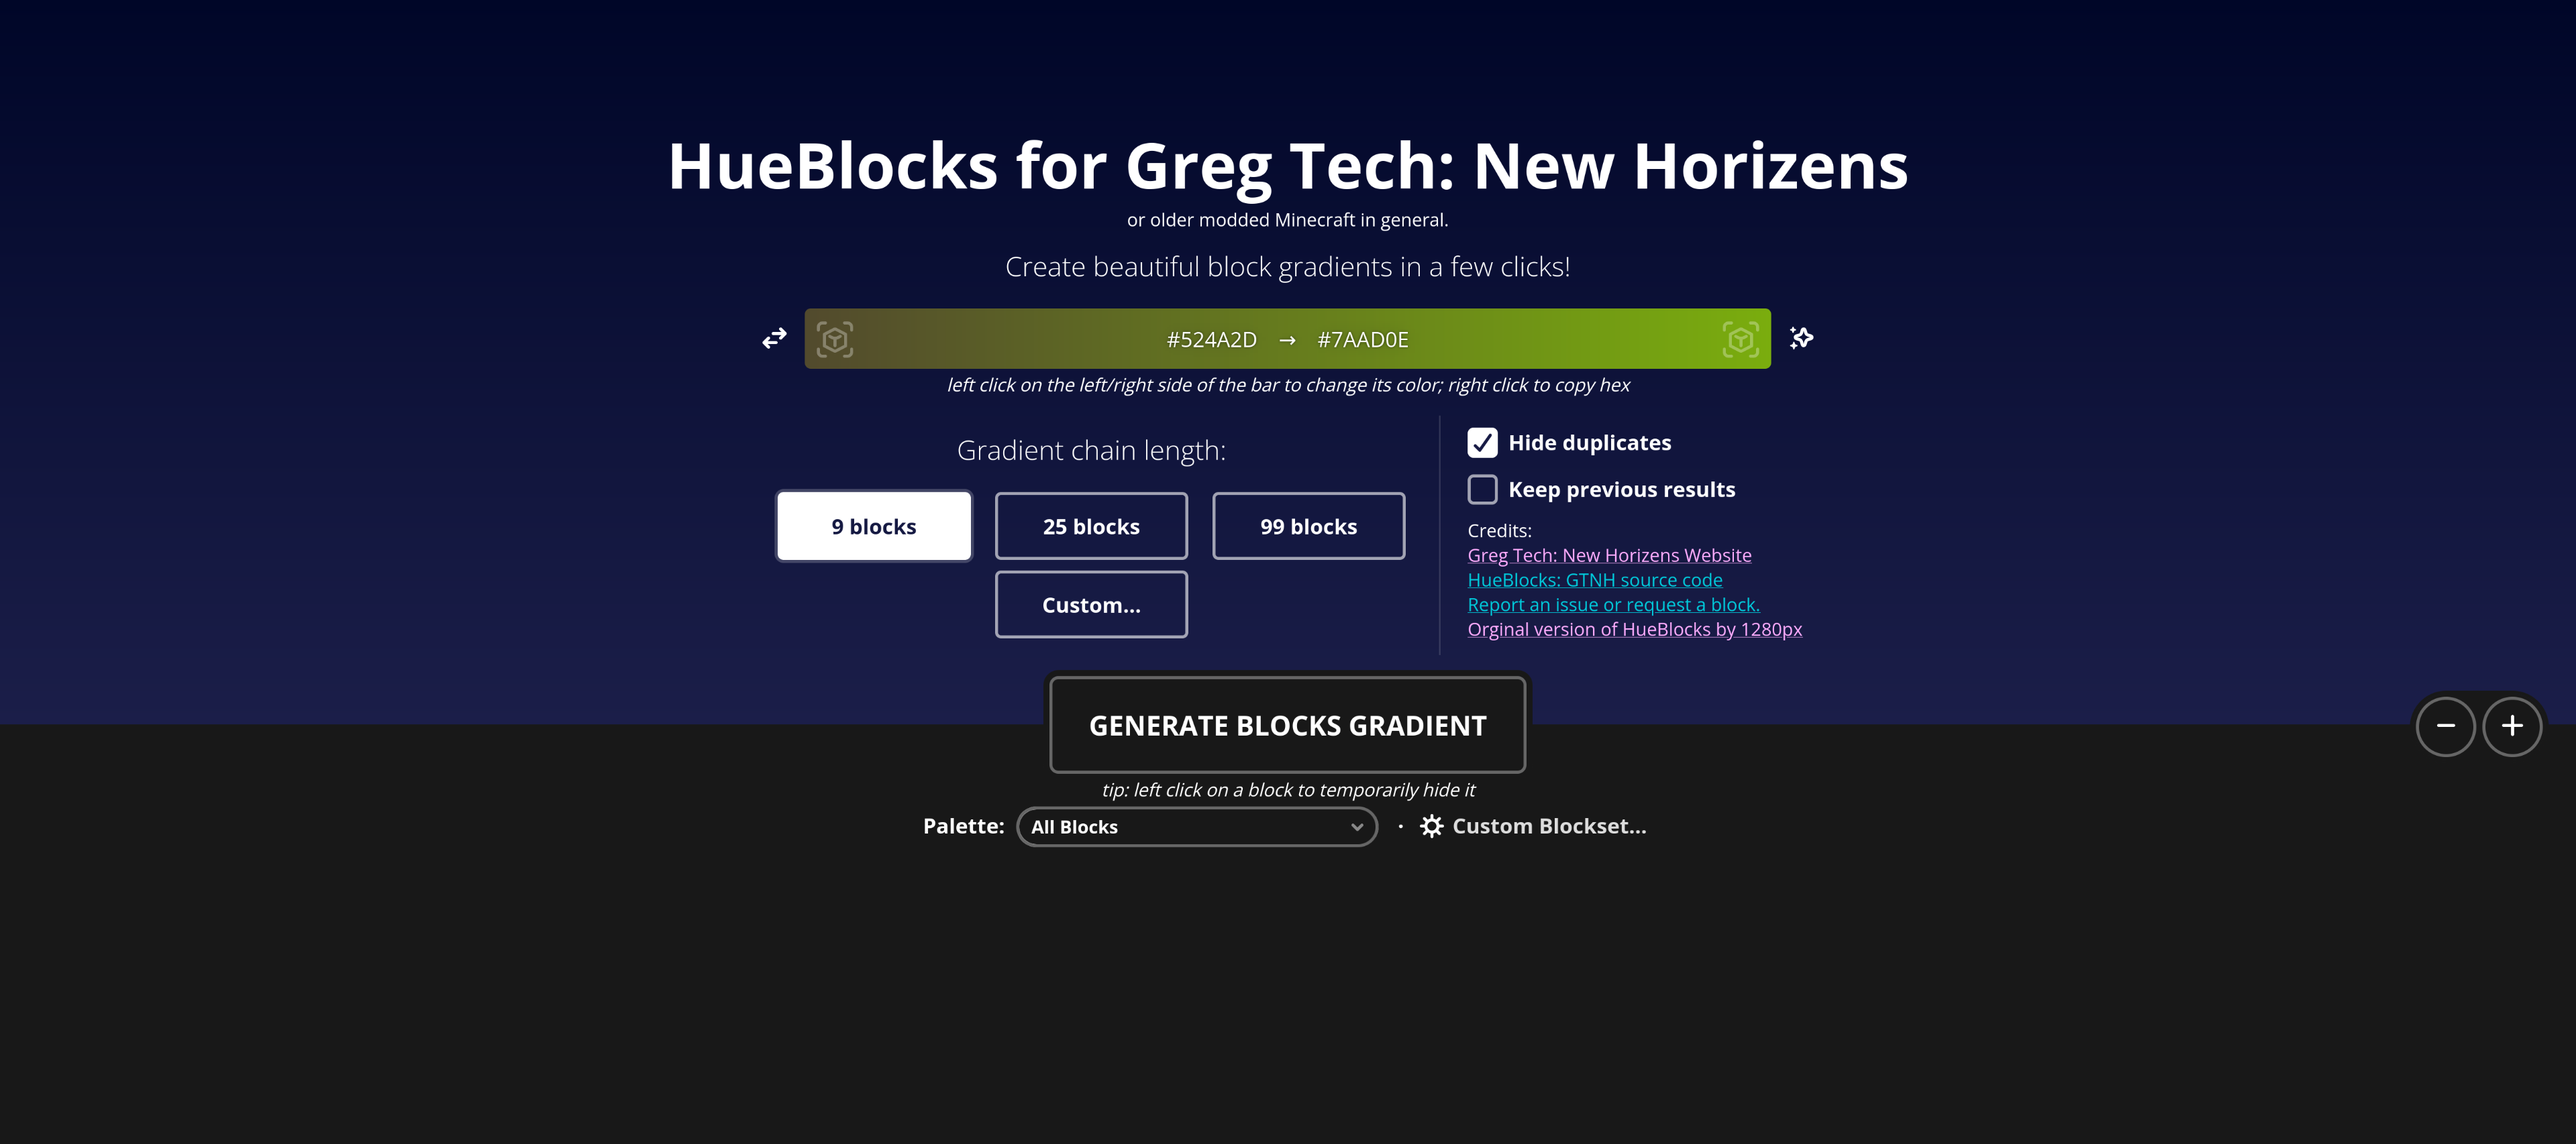
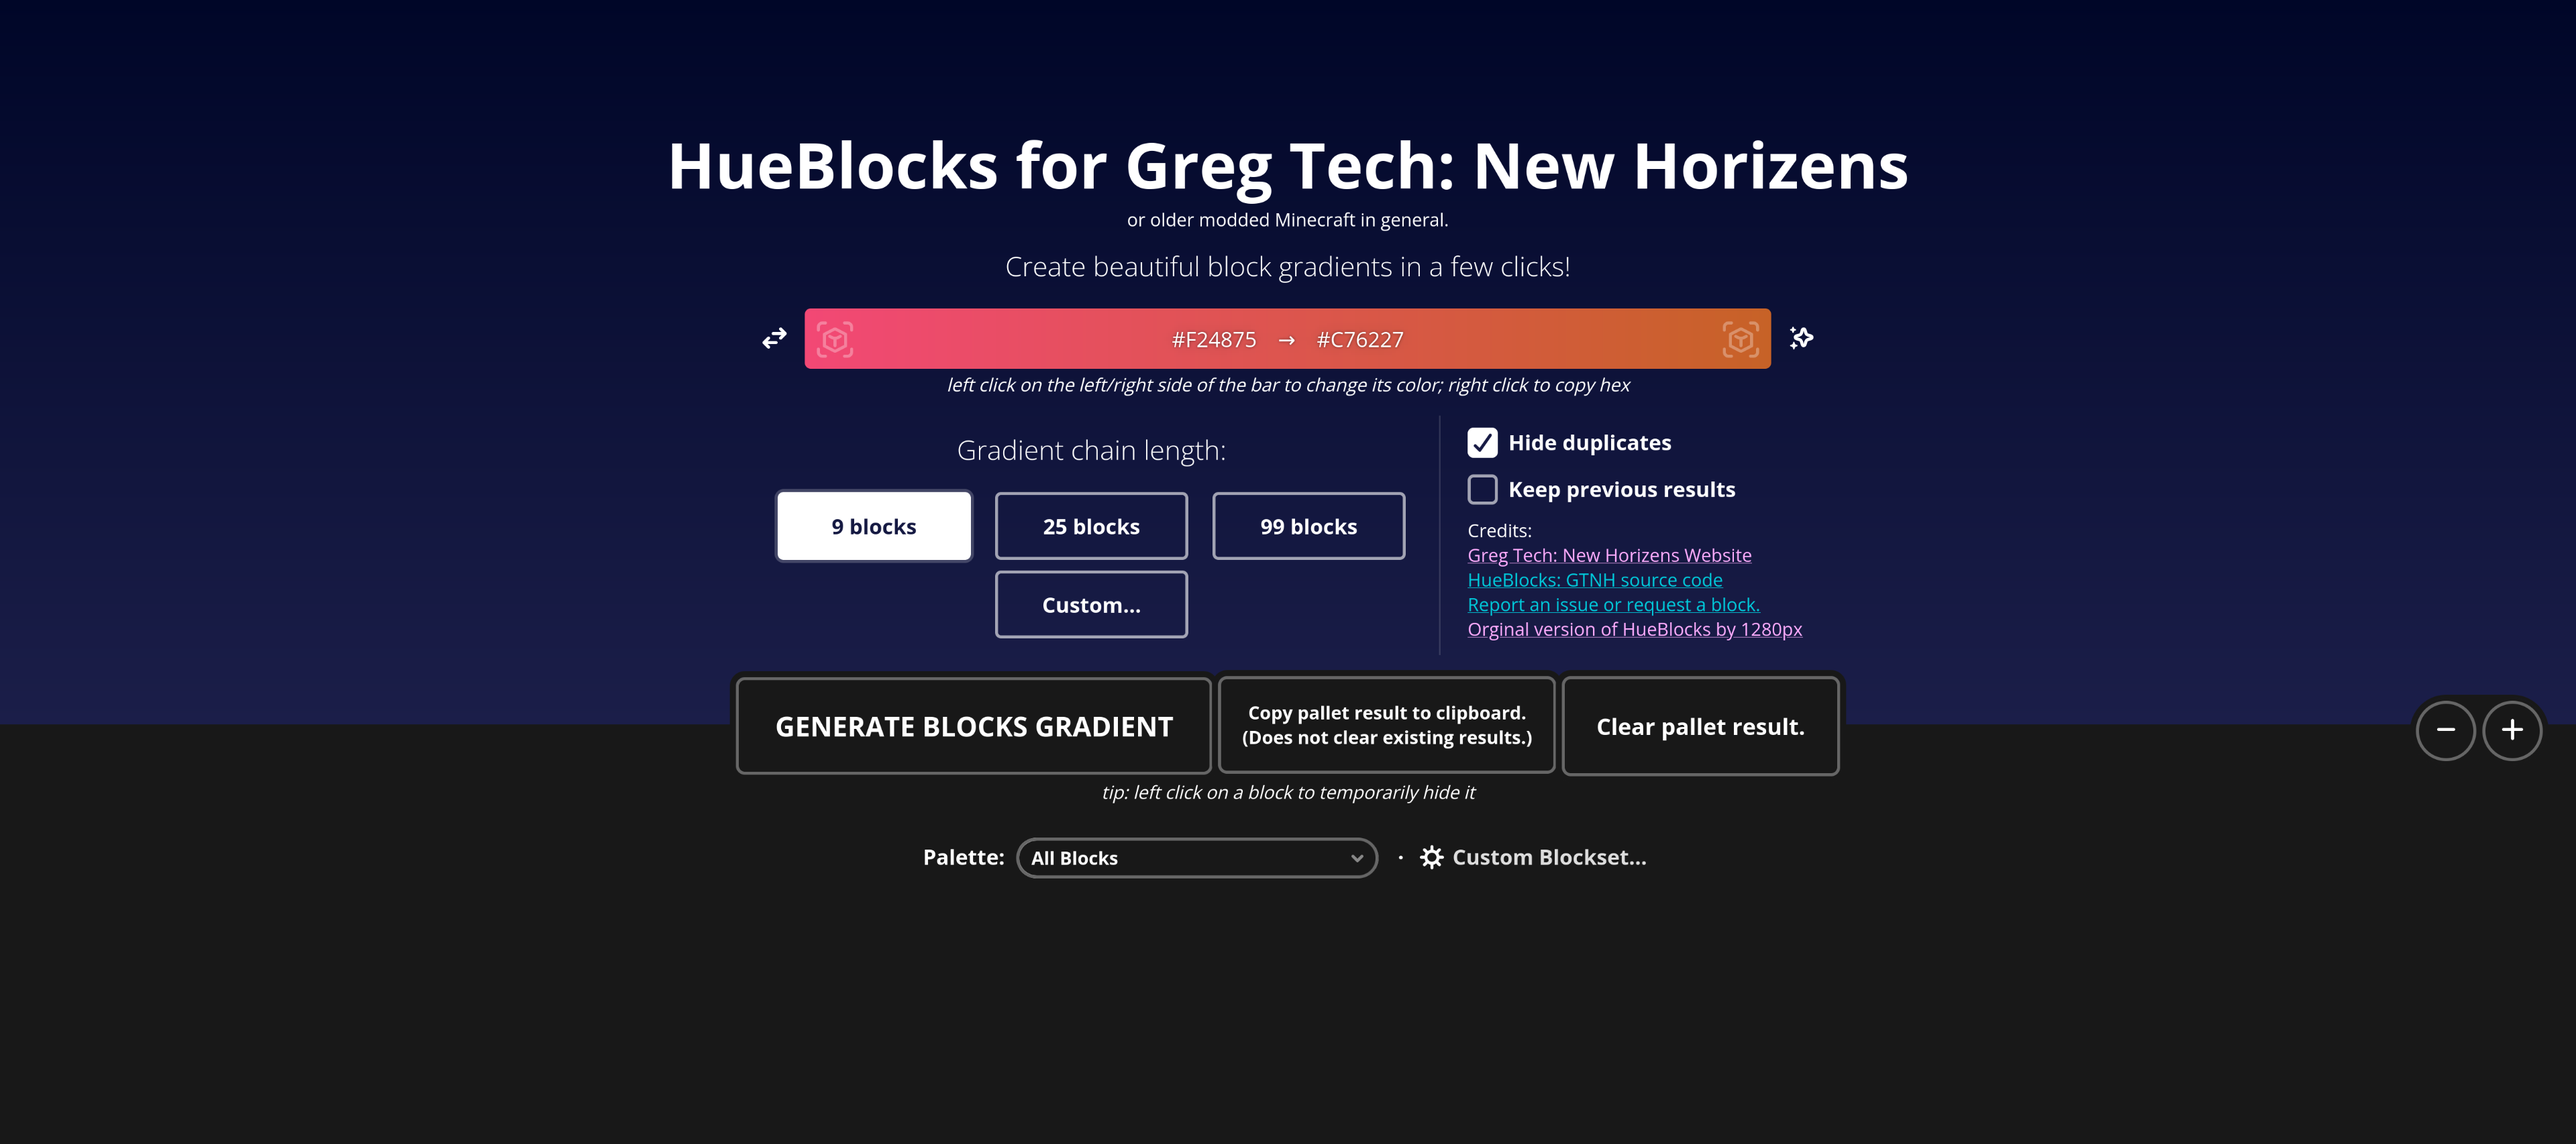
Milestone: Pallets can now be exported to text and copied to your clipboard. Sharing Pallets is now easy. Added two new buttons relating to the pallet export and clear functions Fixed some css alignment again cause of the new buttons. Updated preview image again.

diff --git a/index.js b/index.js
@@ -9,10 +9,8 @@ if (isMobileUserAgent()) {
 	alert("WARNING!\nHueblocks-GTNH is designed for Desktop use.\nMobile use is not supported.\nPlease keep this in mind while using Hueblocks-GTNH.");
 
 }
-else {
-	//alert("WARNING!\nHueblocks-GTNH is designed for Desktop use.\nMobile use is not supported.\nPlease keep this in mind while using Hueblocks-GTNH.");
 
-}
+let ExportedPallet = "";
 
 
 /* colour picker with gradient preview */
@@ -132,7 +130,7 @@ $('#cLenght3').on('click', () => {
 		cLenghtDefaulter();
 	}
 
-	/* process invalid numeral input values */
+	/* process invalid numeral input values var temp1;*/
 	if (stepLen < 3) {
 		alert('The entered number is too small; please enter at least 3 or bigger.');
 		stepLen = 3;
@@ -455,8 +453,12 @@ if ($('#blocksPresetDD').val() == 'blocks_*MOD*') {
 
 	stepVis.attr('blockname', stepLeaders[stepCount].replace('.png', '').replace(/[-._]/g, ' '));
 	stepVis.css({'width': visSize + 'px', 'height': visSize + 'px'});
-
 	stepVis.appendTo('#visResult');
+
+	//Get the results and store them so that way we can save them to a clipboard later
+	var PalletResult = stepVis.attr('blockname');
+	ExportedPallet += PalletResult + ", ";
+	//console.log(ExportedPallet);
 }
 
 
@@ -1519,13 +1521,27 @@ $('#BPickScreenClose').on('click', () => $('#BPickScreen').fadeOut(300) );
 /* finally, process GG button */
 function genGradient() {
 	$('#ggBtn').prop('disabled', true);
+	$('#CopyToClipboardButton').prop('disabled', true);
+	$('#ClearCopyToClipboardButton').prop('disabled', true);
 	updateSteps();
 	genBlocks();
 	$('#ggBtn').prop('disabled', false);
+	$('#CopyToClipboardButton').prop('disabled', false);
+	$('#ClearCopyToClipboardButton').prop('disabled', false);
 }
+
 
 $('#ggBtn').on('click', () => genGradient());
 
+function OutputPalletResults() {
+	if (ExportedPallet) {
+		navigator.clipboard.writeText(ExportedPallet);
+		alert("Pallet coppied to your clipboard!")
+	}
+}
+function ClearPalletResults() {
+	ExportedPallet = "";
+}
 
 
 
@@ -1542,5 +1558,7 @@ $(document).ready(function() {
 
 	/* enable GG button when the script is ready */
 	$("#ggBtn").prop("disabled", false);
+	$('#ggBtn1').prop('disabled', false);
+	$('#ggBtn2').prop('disabled', false);
 })
 

diff --git a/index.html b/index.html
@@ -36,15 +36,20 @@
 				</p>
 		</div>
 </header>
-
-	<div class="ggBtnHandler"><button id="ggBtn" disabled="true">GENERATE BLOCKS GRADIENT</button>
-	<em><br>tip: left click on a block to temporarily hide it</em></div>
-	<div class="visScaleBtns"><button id="visDownscale"><img src="./icon/zoom-out.svg" title="Downscale (0.5x)"></img></button><button id="visUpscale"><img src="./icon/zoom-in.svg" title="Upscale (2.0x)"></img></button></div>
+	<div class="ggBtnHandler">
+		<button id="ggBtn" disabled="true">GENERATE BLOCKS GRADIENT</button>
+		<button id="ggBtn1" style="font-size: 12px; padding: 14px 14px 14px 14px; vertical-align: -30%;" onclick="OutputPalletResults()" disabled="false">Copy pallet result to clipboard. </br> (Does not clear existing results.)</button>
+		<button id="ggBtn2" style="font-size: 15px; padding: 21px 21px 21px 21px; vertical-align: 5%;" onclick="ClearPalletResults()" disabled="false">Clear pallet result.</button>
+		<em><br>tip: left click on a block to temporarily hide it</em></div>
+		<br>
+		<div class="visScaleBtns"><button id="visDownscale"><img src="./icon/zoom-out.svg" title="Downscale (0.5x)"></img></button><button id="visUpscale"><img src="./icon/zoom-in.svg" title="Upscale (2.0x)"></img></button></div>
 	<div class="bottomConfigs">
 		Palette: <select id="blocksPresetDD"><option value="blocks" selected="selected">Loading palettes...</option></select><img src="./icon/dd-arrow.svg" id="blocksPresetDDArrow" title="Downscale (0.5x)"></img>
 		<span style="margin: 0 3px 0 9px">·</span>
 		<button id="CBBtn"><img src="./icon/preferences.svg" title="Custom Blockset"></img> Custom Blockset...</button>
 	</div>
+	</div>
+
 
 	<div id="CPSelScreen" style="display: none;"><h2 class="screenTip">ー Select 1 or more blocks and press <img src="./icon/confirm.svg" title="Confirm"></img> ー</h2>
 	<div class="FSBtnsHolder">

diff --git a/index.css b/index.css
@@ -94,7 +94,8 @@ small {
 	transition: 200ms;
 }
 #rndColorsBtn:hover, #swapColorsBtn:hover, #colorBPick1:hover, #colorBPick2:hover {
-	opacity: 1 !important;
+	opacity: 1
+	!important;width: 32px;
 	background: #fff3;
 	border: 2px solid #fff0;
 }
@@ -207,7 +208,7 @@ small {
 	text-align: center;
 	margin-top: -32px;
 }
-#ggBtn {
+#ggBtn, #ggBtn1, #ggBtn2 {
 	appearance: none;
 	display: inline-block;
 	padding: 18px 24px;
@@ -218,16 +219,16 @@ small {
 	box-shadow: 0 0 0 4px #181818;
 	transition: 200ms;
 }
-#ggBtn:not(:disabled):hover {
+#ggBtn:not(:disabled):hover, #ggBtn1:not(:disabled):hover, #ggBtn2:not(:disabled):hover {
 	border: 2px solid #a1a3b3;
 }
-#ggBtn:not(:disabled):hover:active {
+#ggBtn:not(:disabled):hover:active, #ggBtn1:not(:disabled):hover:active, #ggBtn2:not(:disabled):hover:active {
 	background-color: #fff;
 	border: 2px solid #fff;
 	box-shadow: 0 0 0 4px #181818, inset 0 0 0 2px #ccc;
 	color: #171a44;
 }
-#ggBtn:disabled {
+#ggBtn:disabled, #ggBtn1:disabled, #ggBtn2:disabled {
 	background-color: #999;
 	color: #181818;
 	box-shadow: 0 0 0 2px #666;
@@ -236,7 +237,7 @@ small {
 .visScaleBtns {
 	position: absolute;
 	right: 20px;
-	margin-top: -72px;
+	margin-top: -90px;
 	background-color: #181818;
 	box-shadow: 0 0 0 2px #181818;
 	border-radius: 1280px;
